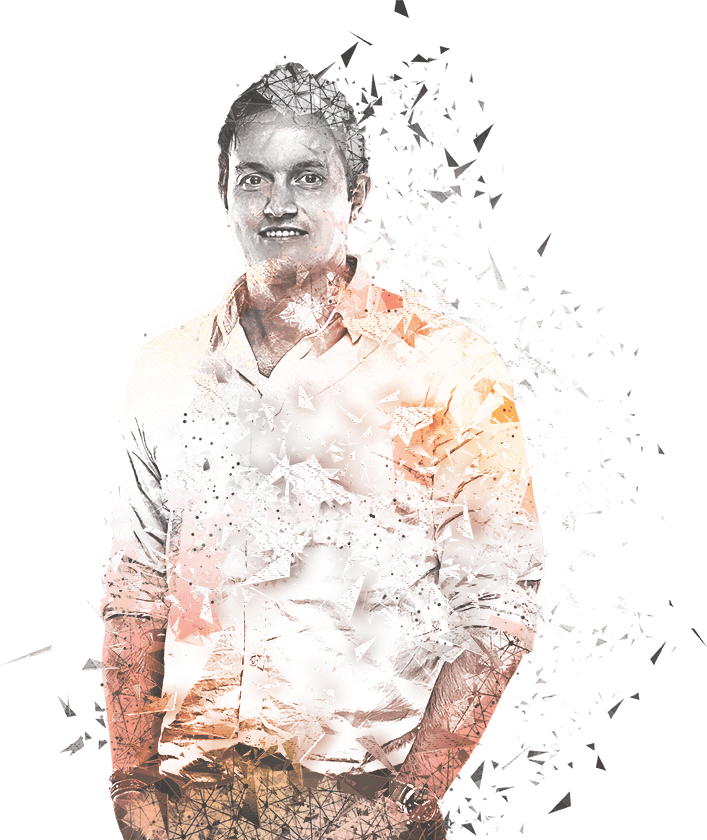
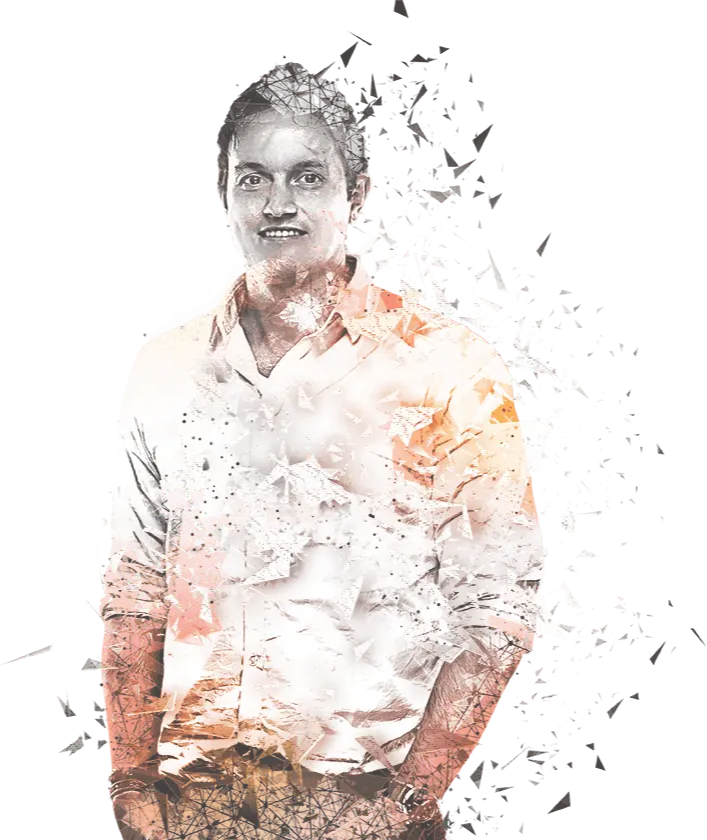
Optimized images & disabled some Fonts for now

diff --git a/src/main.js b/src/main.js
@@ -36,12 +36,17 @@ export default function (Vue, { router, head, isClient }) {
     head.link.push({
         rel: 'stylesheet',
         href:
-            'https://fonts.googleapis.com/css?family=Roboto:100,300,400,700,900&display=swap',
+            'https://fonts.googleapis.com/css?family=Poppins:400&display=swap',
     })
-    head.link.push({
-        rel: 'stylesheet',
-        href: 'https://fonts.googleapis.com/css?family=Open+Sans&display=swap',
-    })
+    // head.link.push({
+    //     rel: 'stylesheet',
+    //     href:
+    //         'https://fonts.googleapis.com/css?family=Roboto:100,300,400,700,900&display=swap',
+    // })
+    // head.link.push({
+    //     rel: 'stylesheet',
+    //     href: 'https://fonts.googleapis.com/css?family=Open+Sans&display=swap',
+    // })
     head.link.push({
         rel: 'stylesheet',
         href:

diff --git a/src/assets/style/_typography.scss b/src/assets/style/_typography.scss
@@ -1,5 +1,3 @@
-@import url('https://fonts.googleapis.com/css?family=Poppins:400');
-
 html {
     font-size: var(--base-font-size);
 }
